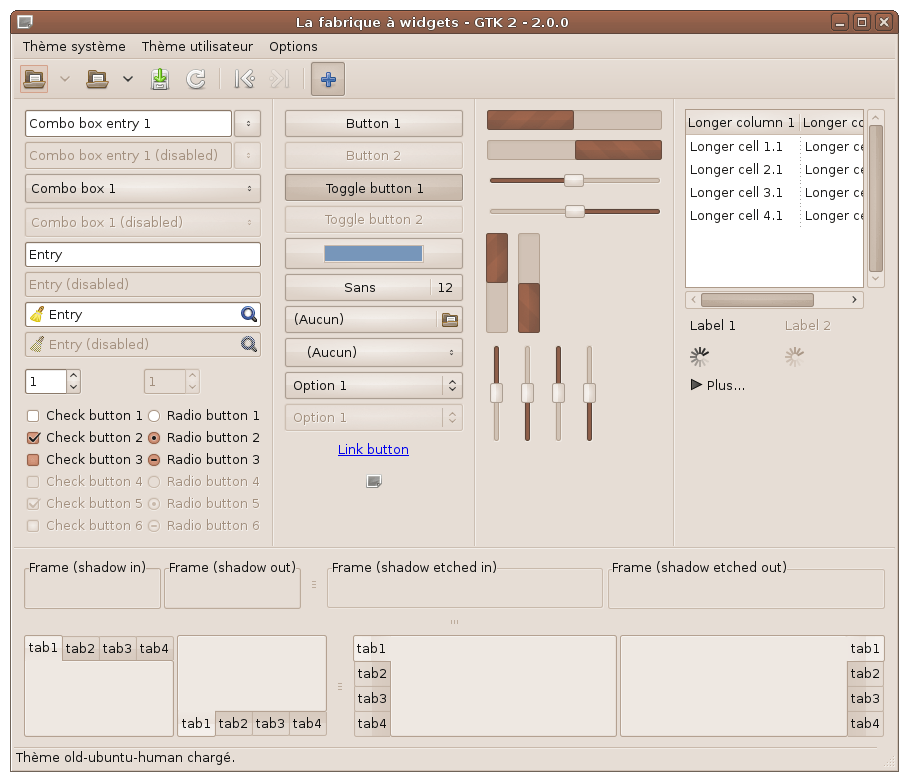
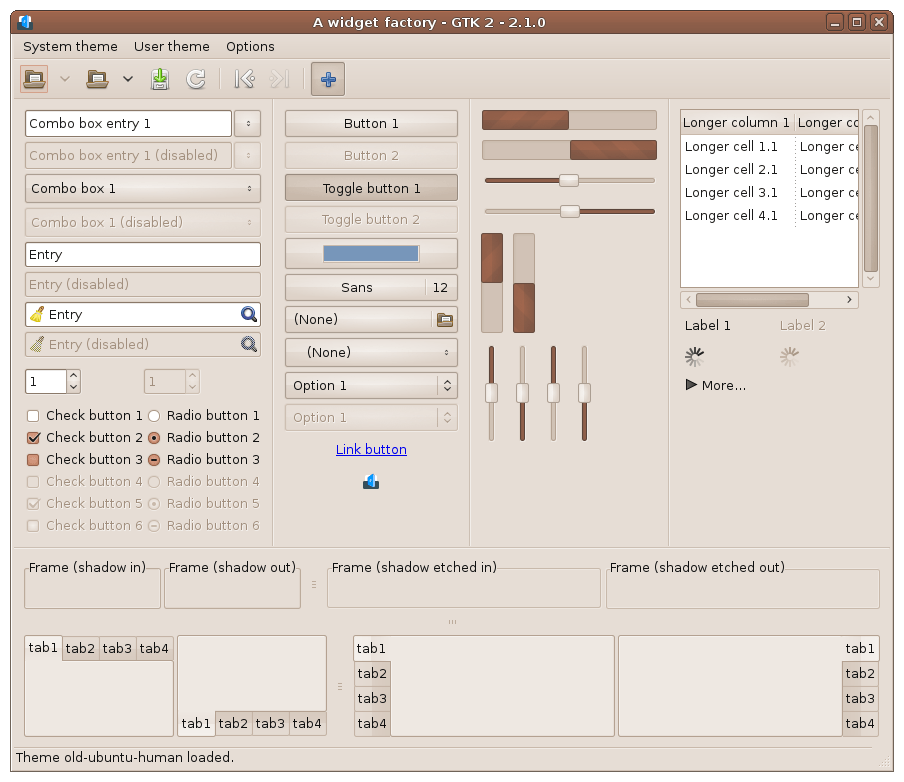
New screenshots

diff --git a/README.md b/README.md
@@ -1,42 +1,54 @@
 # AWF - A Widget Factory (Extended)
 
-Work in progress.
+A widget factory is a theme preview application for GTK. It displays the various widget types provided by GTK in a single window allowing to see the visual effect of the applied theme.
 
-A widget factory is a theme preview application for gtk2, gtk3 and gtk4. It displays the various widget types provided by GTK in a single window allowing to see the visual effect of the applied theme.
+Debian package submitted, [rfs for awf-gtk2](https://bugs.debian.org/cgi-bin/bugreport.cgi?bug=959897) and [rfs for awf-gtk3](https://bugs.debian.org/cgi-bin/bugreport.cgi?bug=959892).
 
 ## Installation
 
 It require *GTK 2.24+* or *GTK 3.0+ (including 3.24)* or *GTK 4.0+ (3.98+)*, and *GLIB 2.28+*.
 
-* From source: `apt install dh-autoreconf libgtk2.0-dev libgtk-3-dev libgtk-4-dev` then: `./build.sh`
+* The *build.sh* script will compile the program with all major GTK version available: `sudo apt install dh-autoreconf libgtk2.0-dev libgtk-3-dev libgtk-4-dev` then: `bash build.sh`
 
-The *build.sh* script will compile the program with all major GTK version available.
+* The *debian-gtkx/deb.sh* script will compile the program and create debian package: `sudo apt install autotools-dev devscripts lintian dh-autoreconf libgtk2.0-dev libgtk-3-dev libgtk-4-dev` then: `bash debian-gtkx/deb.sh`
 
 ## Screenshots
 
+* Some options are available from command line (read -h).
 * The options menu allow to run some standard dialogs.
+* The menu items keyboard shortcut can be updated on hover (GTK 2.24, 3.0-3.24, *gtk-can-change-accels*).
 * The plus toolbar button show/hide: arrows on notebooks, text on progress bars and scales, marks on scales.
 * The refresh toolbar button and the refresh menuitem allow to reload the current theme.
-* Some options are available from command line (read -h).
+* Translations: English (en), French (fr).
 
-![A widget factory - GTK 2](images/gtk2.png?raw=true)
-![A widget factory - GTK 3](images/gtk3.png?raw=true)
-![A widget factory - GTK 4](images/gtk4.png?raw=true)
+GTK 2
+
+[![A widget factory - GTK 2 - Main window](images/thumbs/gtk2.png?raw=true)](images/gtk2.png?raw=true)
+[![A widget factory - GTK 2 - Test menu](images/thumbs/gtk2-menu.png?raw=true)](images/gtk2-menu.png?raw=true)
+
+GTK 3
+
+[![A widget factory - GTK 3 - Main window](images/thumbs/gtk3.png?raw=true)](images/gtk3.png?raw=true)
+[![A widget factory - GTK 3 - Test menu](images/thumbs/gtk3-menu.png?raw=true)](images/gtk3-menu.png?raw=true)
+
+GTK 4
+
+Coming soon.
 
 ## SIGHUP
 
 To auto reload theme on files change, you can use [entr](https://github.com/clibs/entr).
 ```
-apt install entr
+sudo apt install entr
 ls ~/.themes/yourtheme/gtk-3.0/*.css | entr killall -s SIGHUP awf-gtk3
 ```
 
 ## Copyright and Credits
 
-This program is provided under the terms of the GNU GPLv3 license.
+This program is provided under the terms of the *GNU GPLv3* license.
 
 * Updated by Fabrice Creuzot (luigifab)
-* Forked from [awf](https://github.com/valr/awf) created by Valère Monseur (valr)
+* Forked from [awf](https://github.com/valr/awf) by Valère Monseur (valr)
 * Thanks to Ottoman Kent (for testing in ubuntu and bug report)
 * Thanks to Dwight Engen (for rpm specification file: awf.spec.in)
 * Thanks to Josef Radinger (for sorted menus, text in progress bars, treeviews with scrollbars)
